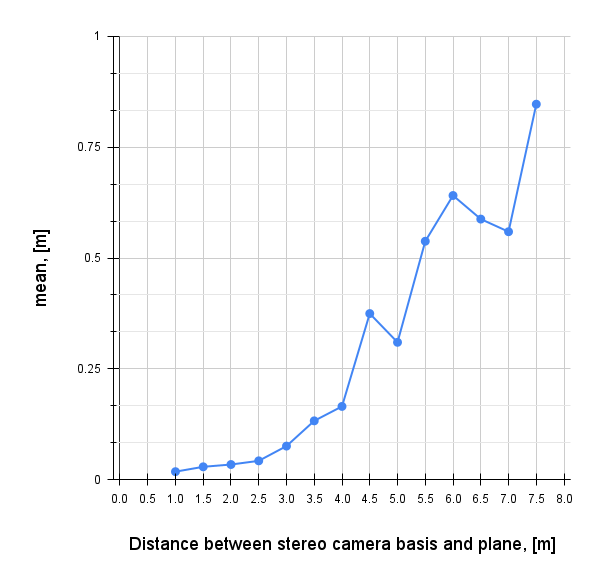
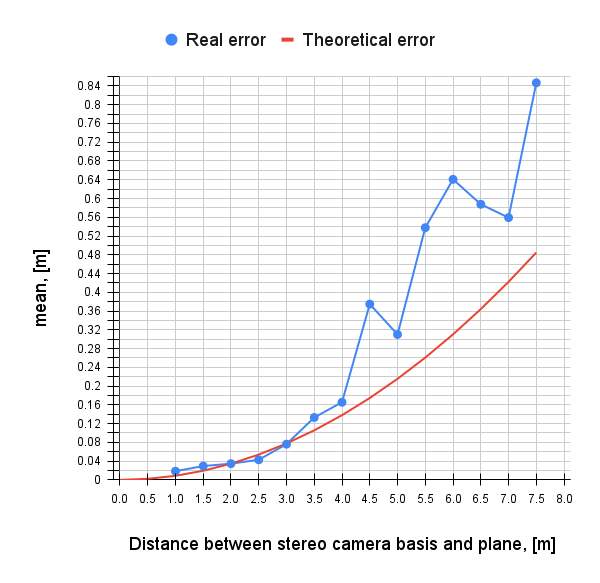
add data about the average rate

diff --git a/chapters/evaluation.tex b/chapters/evaluation.tex
@@ -78,7 +78,7 @@ The same image with visible key points in a featureless environment was used.
   \begin{subfigure}[ht]{.49\textwidth}
     \centering
     \includegraphics[width=\textwidth]{graphics/exp2_mean.png}
-    \caption{Second experiment. Mean of $e'_i$.}
+    \caption[Second experiment. Mean of $e'_i$.]{Second experiment. Mean of $e'_i$. Red line represents the theoretical error for the stereo vision.}
     \label{fig:exp_2_mean}
   \end{subfigure}
   \hfill
@@ -131,13 +131,18 @@ The difference is that $\Omega'$ is compute not using the RANSAC to fit the plan
     e'_i = \frac{1}{k} \sum_{j=0}^{k}{|p'_j|},
 \end{equation}
 where $k$ is the number of keypoints detected at a timestamp $t_i$, and $p'_j$ is the distance from point $\vec{p}'_j$ to $\Omega$.
-Then $d'_i$ is defined as 
-\begin{equation}
-    d'_i = d_i - e'_i.
-\end{equation}
+Then $d'_i$ is defined as $d'_i = d_i - e'_i$.
 
 The distance $d$ was from $1$m to $7.5$m as the maximum distance at which key points can be detected (empirically found) with the step of $0.5$m.
 The mean and variance of $e'_i$ is shown in \autoref{fig:exp_2_mean} and \autoref{fig:exp_2_var}, and comparison of $d_i$ and $d'_i$ is in \autoref{fig:exp_2_res}. 
+
+There is a description of the theoretical (expected) error for a stereo setup with predefined parameters, introduced in \cite{cv_theoretical_error}.
+The theoretical error is defined as
+\begin{equation}
+    e_Z = \frac{Z^2 \delta}{bf},
+\end{equation}
+where $Z$ is a real distance in, $\delta$ is a disparity error, $f$ is a focal length, $b$ is a baseline.
+In \autoref{fig:exp_2_mean} the red line represents the theoretical error for the proposed setup.
 
 \section{Rate testing}
 \begin{table}[ht]
@@ -163,4 +168,4 @@ The first experiment, described in \autoref{sec:exp1}, shows that the precision 
 The estimated distance error on $3$m is less than $3\%$.
 The maximum available distance to detect points is $7.5$m with an error up to $1$m.
 On further distances, key points can not be detected anymore due to the camera resolution and focal length (cameras were calibrated on distances up to $2$m).
-The proposed solution works with the average frequency of $TODO$Hz.
+The proposed solution works with the average frequency of $10$Hz.

diff --git a/chapters/conclusion.tex b/chapters/conclusion.tex
@@ -6,12 +6,11 @@ Its main advantage is the reduced number of cameras to cover a bigger area and t
 It needs only a CPU to work; no GPU is needed.
 The proposed solution consists of a working prototype and two ROS packages: the stereo pair driver and the package for obstacle avoidance.
 All algorithms described in this thesis in \autoref{chapter:evaluation} are available as program's parameters while launching the module.
-For the driver, it is a calibration method (PnP or least square); for the obstacle avoidance, it is a triangulation method (SvD, which is recommended, or shortest distance, used for debugging).
+For the driver, it is a calibration method (PnP or least square); for the obstacle avoidance, it is a triangulation method (SVD, which is recommended, or shortest distance, used for debugging).
 The obstacle avoidance package also has scripts to check the stereo pair calibration quality using epipolar error (used for data filtering after keypoints detections, described in \autoref{sec:features}) for debugging, data collection and collected data analysis.
 
 The proposed solution was evaluated in a laboratory experiment, described in \autoref{chapter:evaluation}. 
 The experiment demonstrates that the working distance for the proposed setup is up to $7.5$m, while recommended distance is up to $3.5$m. 
-
 The working frequency is not enough to fly at high speed, so it is one of desired directions for development.
 The possible way to solve this issue is to change the image synchronisation part of a stereo camera driver to remove image copying from it.
 
